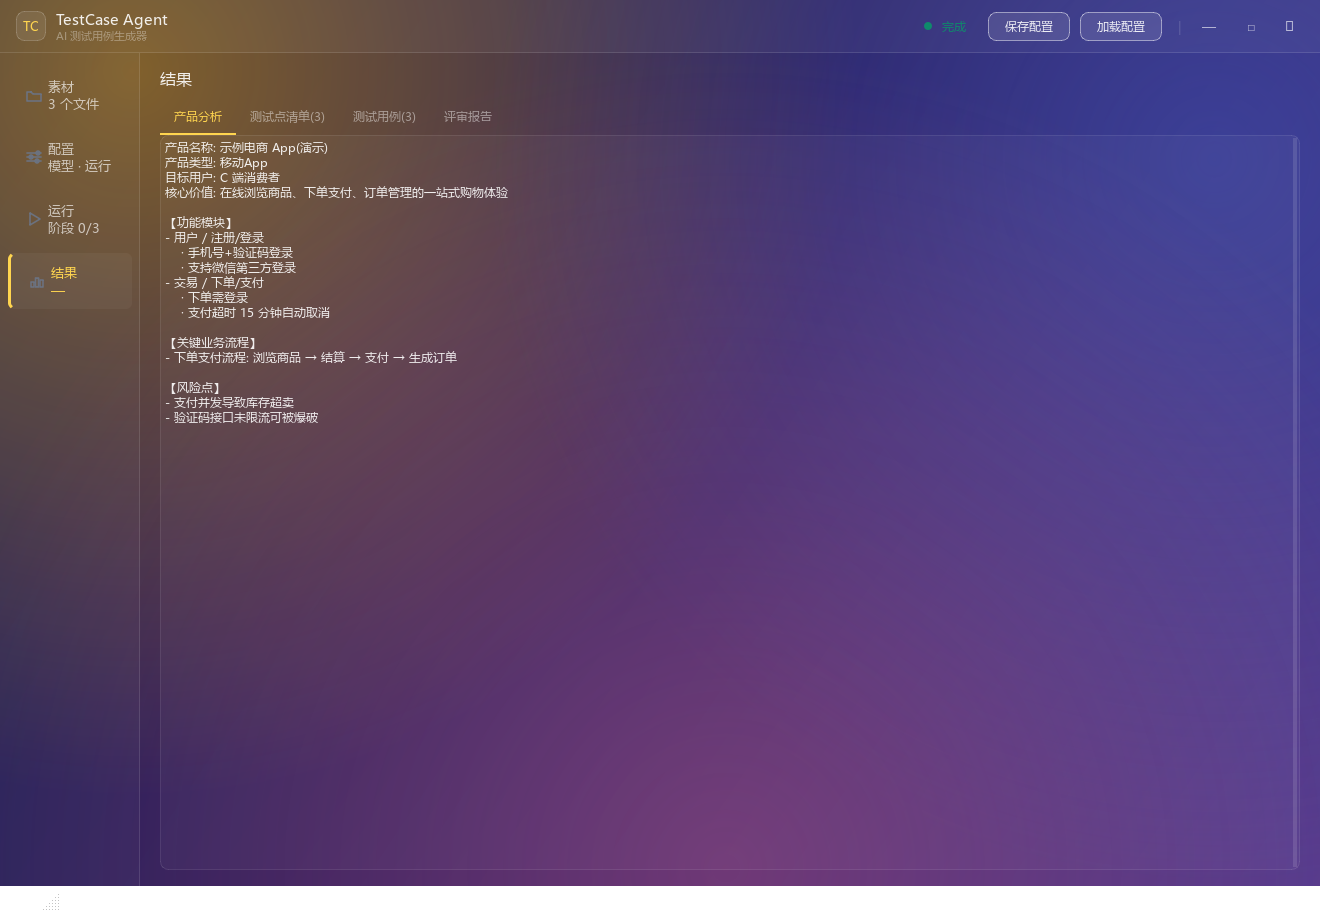
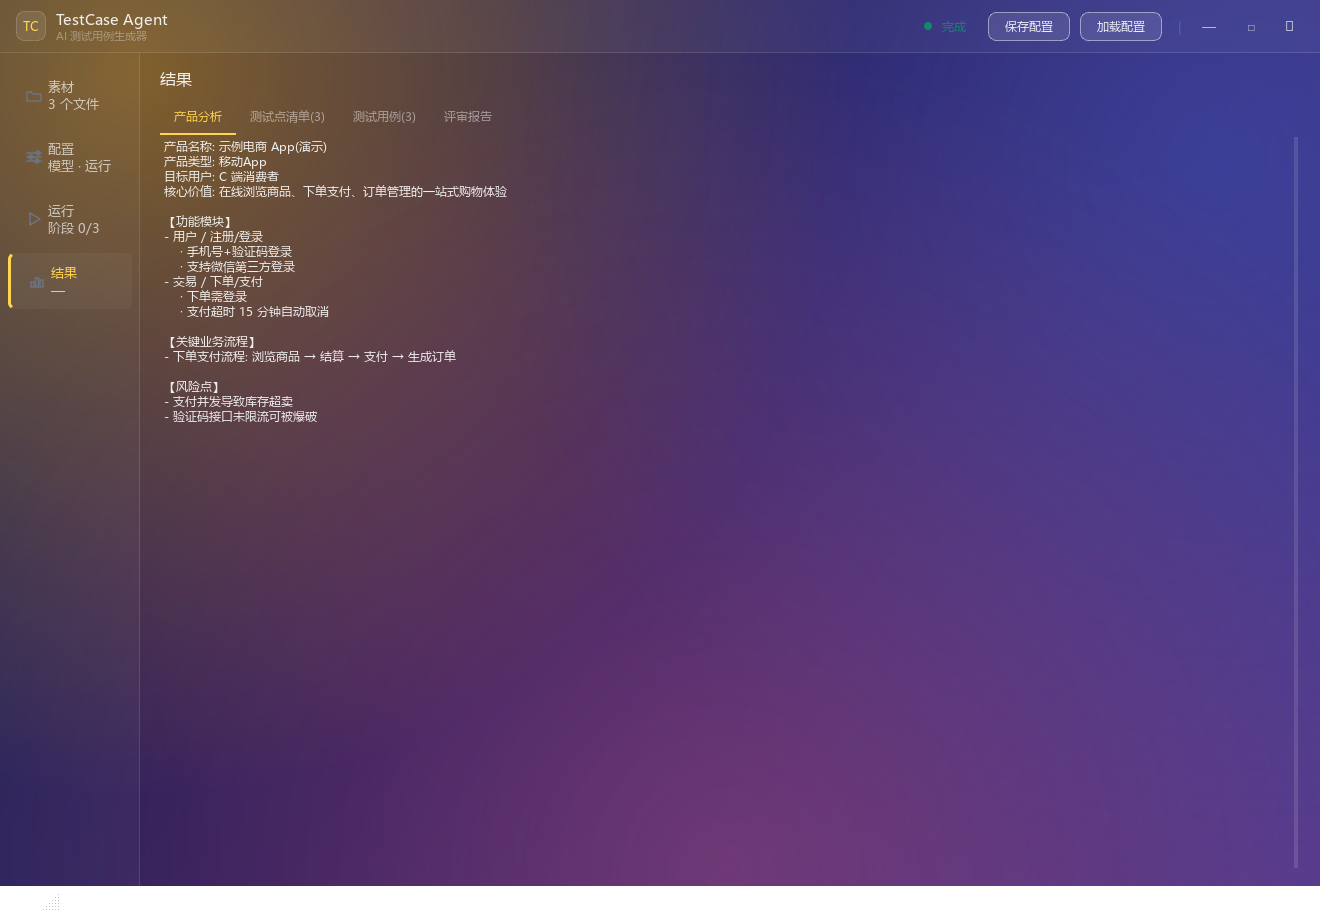
fix:配置页白屏——滚动/堆叠容器透明让暗紫玻璃底透出
- 根因:Qt 默认 QScrollArea viewport 与 QStackedWidget page 使用亮色面板背景,
  盖住 BackgroundWidget 暗紫渐变光斑,导致配置页整片白底+白字不可见
- 修复:QSS 加 QScrollArea/QStackedWidget/QWidget#MainBody 透明规则,
  让暗紫玻璃底透出;Card rgba(255,255,255,14) 玻璃卡浮在暗紫上
- 69 测试通过

Changed region(s): [[0.1242, 0.1522, 0.3727, 0.4565]]

diff --git a/testcase_agent/gui/ui/style.py b/testcase_agent/gui/ui/style.py
@@ -317,4 +317,14 @@ QScrollBar::add-line, QScrollBar::sub-line {
 QScrollBar::add-page, QScrollBar::sub-page {
     background: transparent;
 }
+
+/* ============ 容器透明(让暗紫玻璃背景透出,避免白屏) ============ */
+QScrollArea,
+QScrollArea > QWidget > QWidget,
+QStackedWidget,
+QStackedWidget > QWidget,
+QWidget#MainBody {
+    background: transparent;
+    border: none;
+}
 """

diff --git a/testcase_agent/gui/app.py b/testcase_agent/gui/app.py
@@ -375,6 +375,7 @@ class MainWindow(QMainWindow):
 
         root.addWidget(self._build_header())
         body = QWidget()
+        body.setObjectName("MainBody")
         body_lay = QHBoxLayout(body)
         body_lay.setContentsMargins(0, 0, 0, 0)
         body_lay.setSpacing(0)
